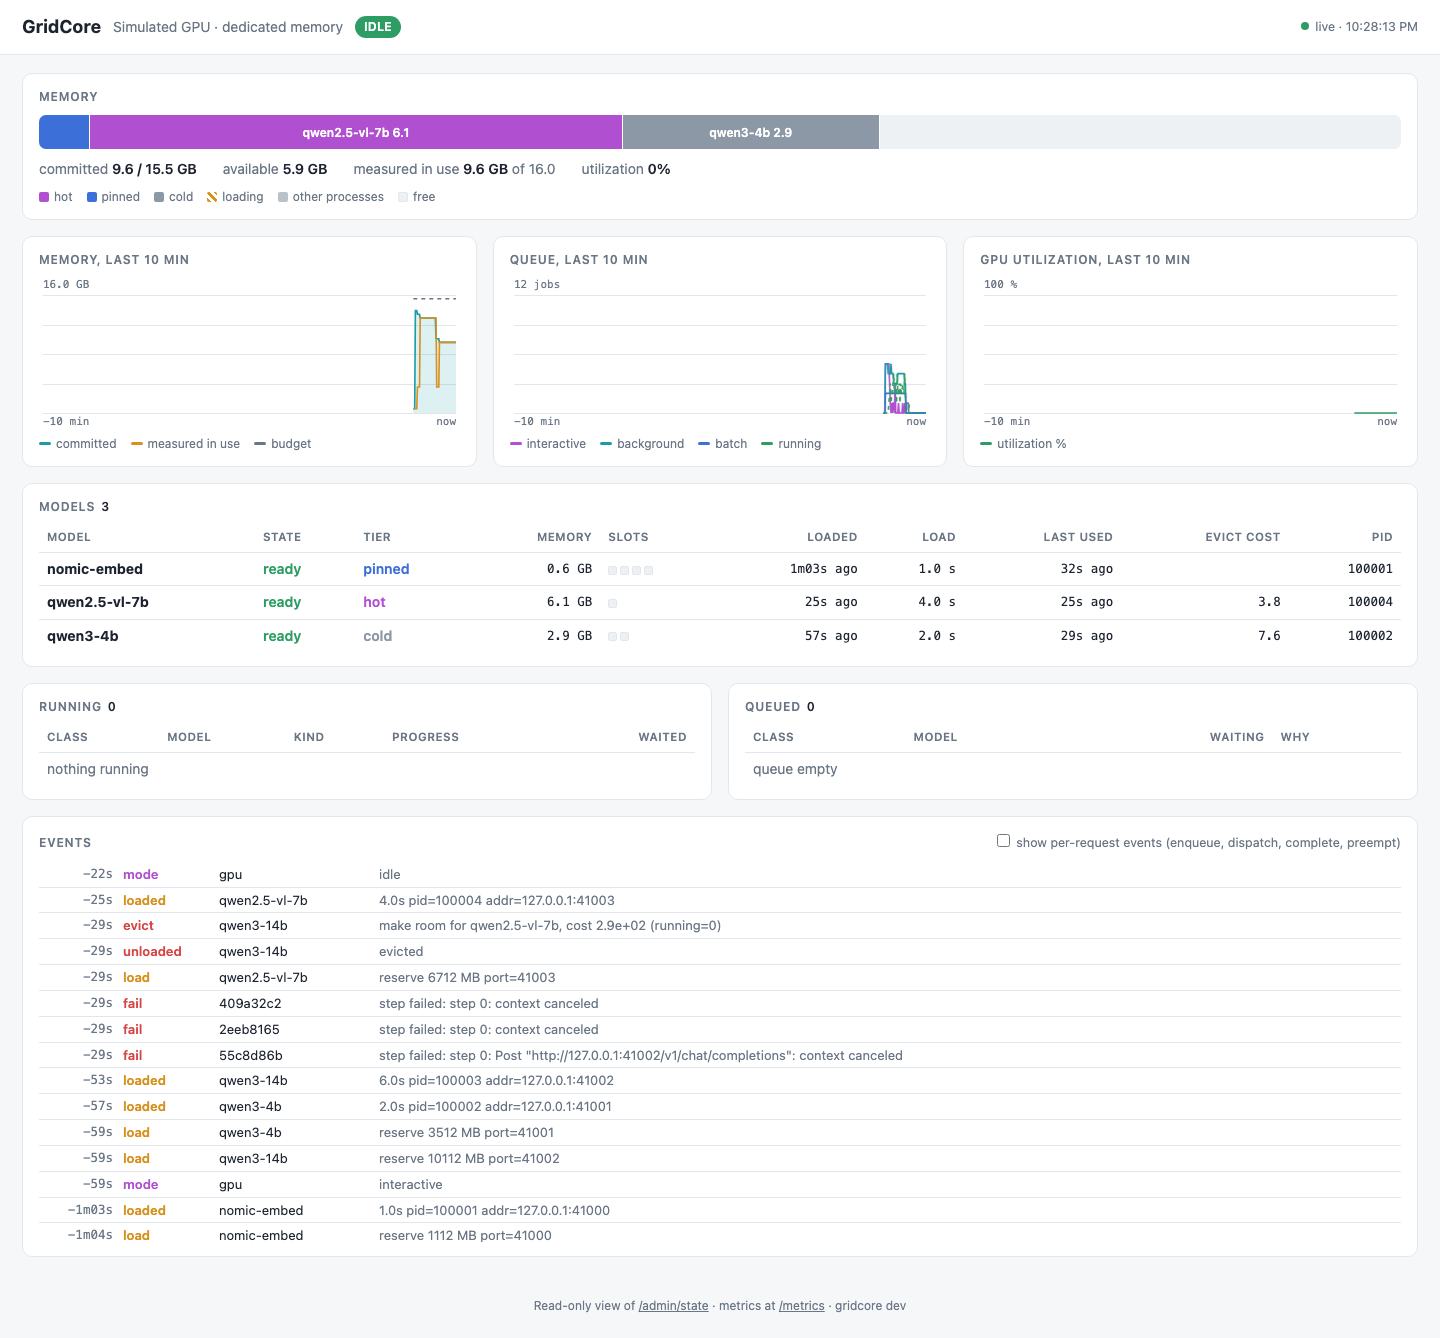
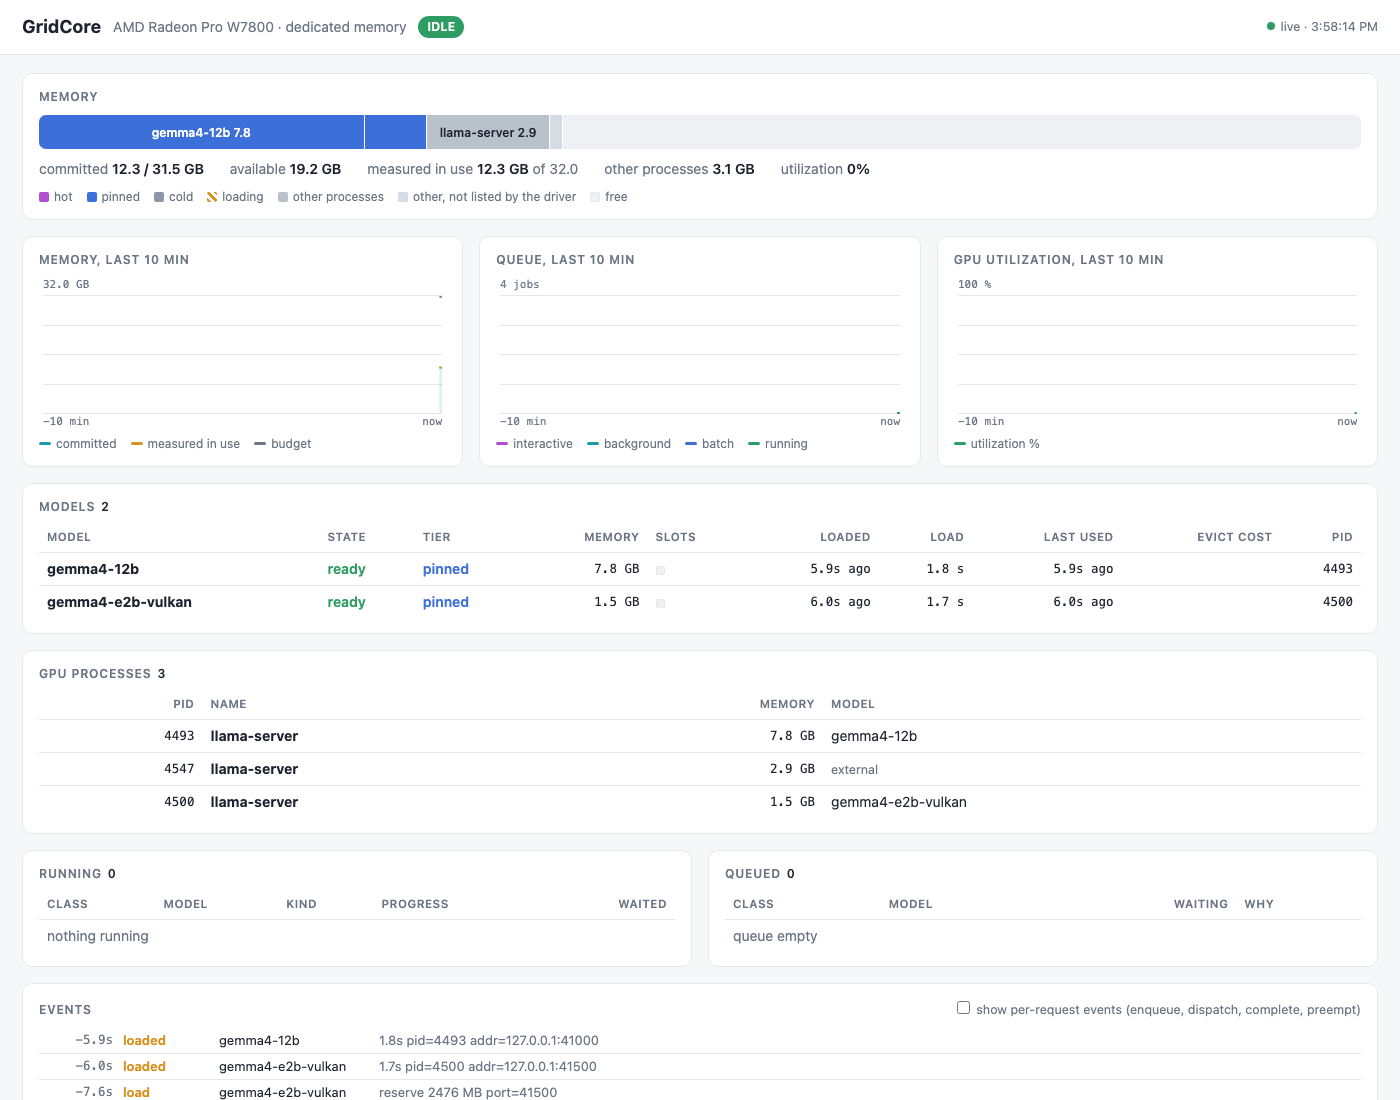
README: dashboard screenshot from a Radeon Pro W7800, with the GPU processes panel

diff --git a/README.md b/README.md
@@ -443,7 +443,7 @@ and every load and eviction since the page was opened. It is one page
 compiled into the binary that polls `/admin/state`; it loads nothing from
 the internet and changes nothing.
 
-![GridCore dashboard: memory budget split by model, memory, queue and GPU utilisation charts, resident models with tier, size, slots and eviction cost, running and queued jobs, and the scheduler's events](docs/gridcore-dashboard.png)
+![GridCore dashboard: memory budget split by model, memory, queue and GPU utilisation charts, resident models with tier, size, slots and eviction cost, every process on the GPU with the model it serves, running and queued jobs, and the scheduler's events](docs/gridcore-dashboard.png)
 
 Under load on that card:
 
